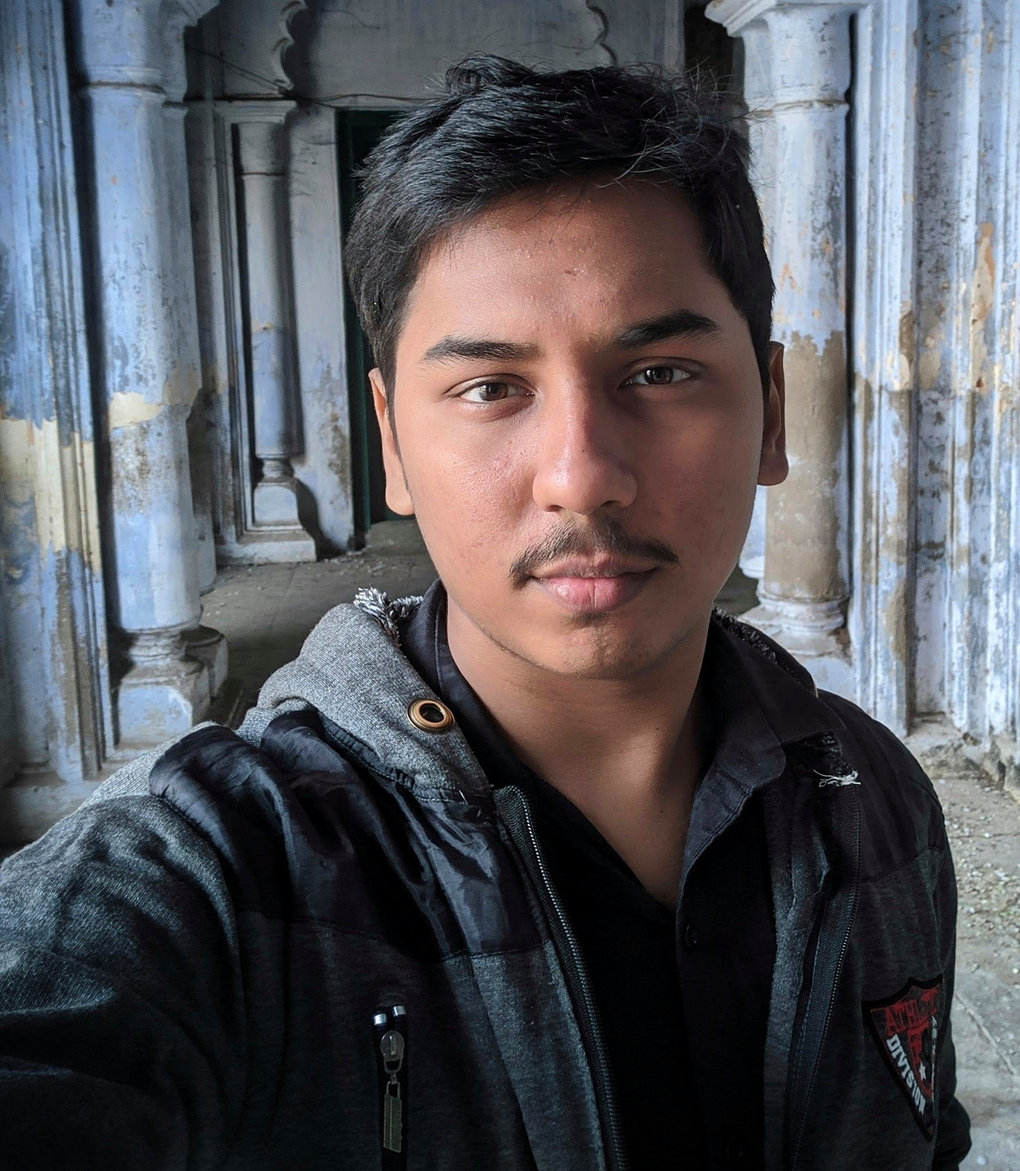
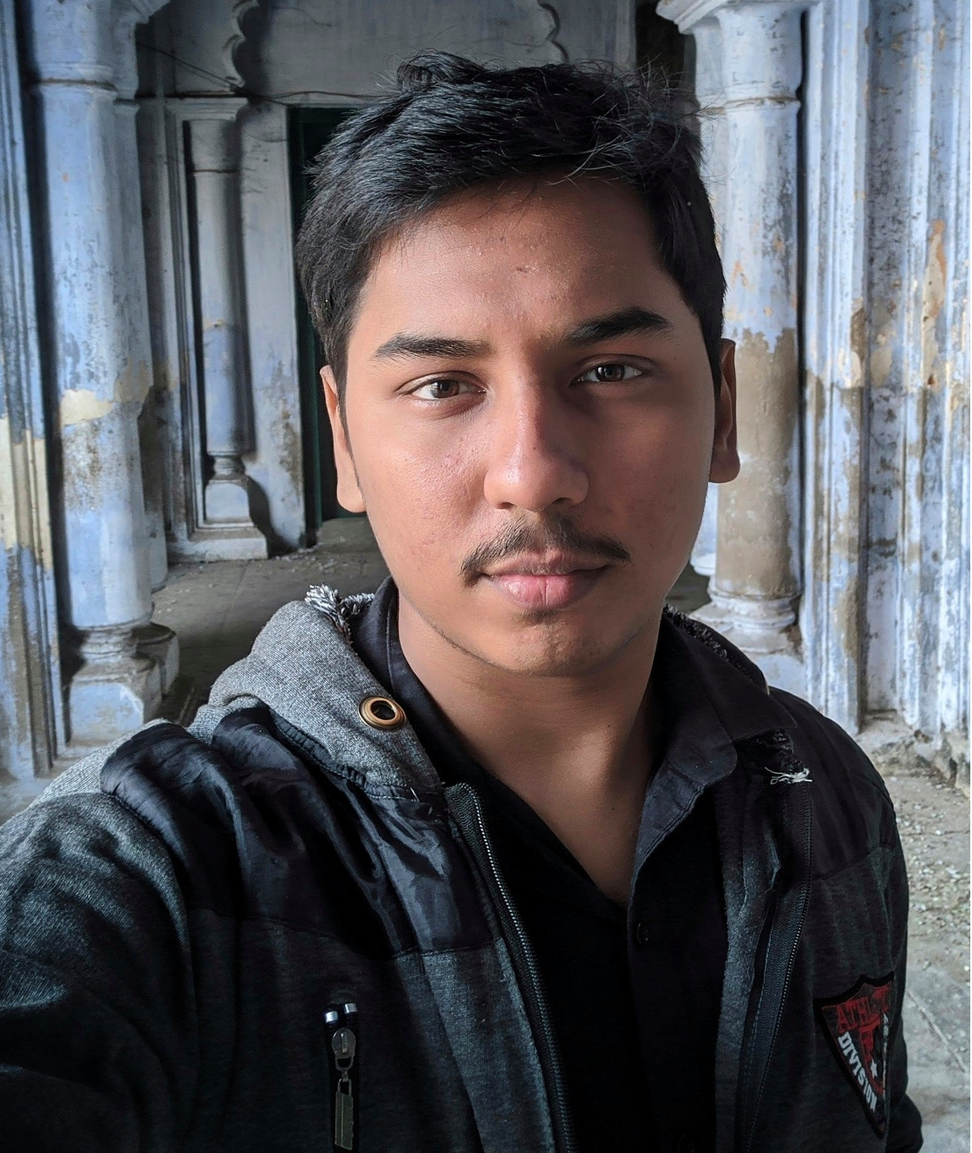
Added image of Member RajendraKumarShaw

diff --git a/index.html b/index.html
@@ -217,7 +217,7 @@
             </div>
             <div class="MemberBox">
                 <div class="MemberImage">
-                    <img src="images/SoumyadeepDe.jpg" alt="">
+                    <img src="images/RajendraKumarShaw.jpg" alt="">
                 </div>
                 <div class="MemberName">RAJENDRA KUMAR SHAW</div>
                 <div class="MemberPost">EXECUTIVE MEMBER</div>
